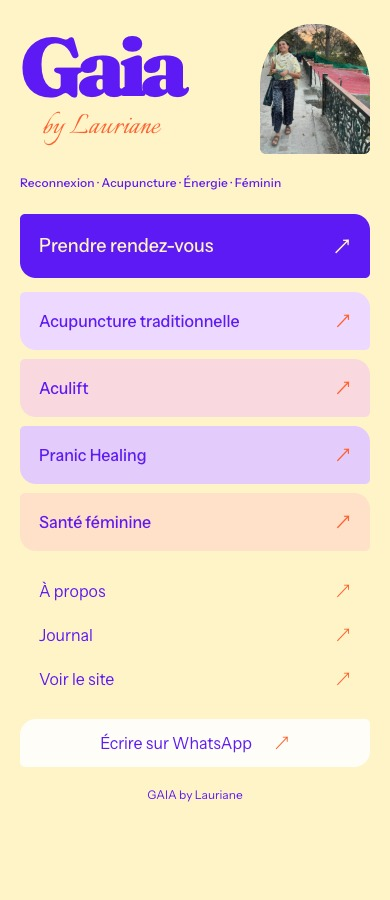
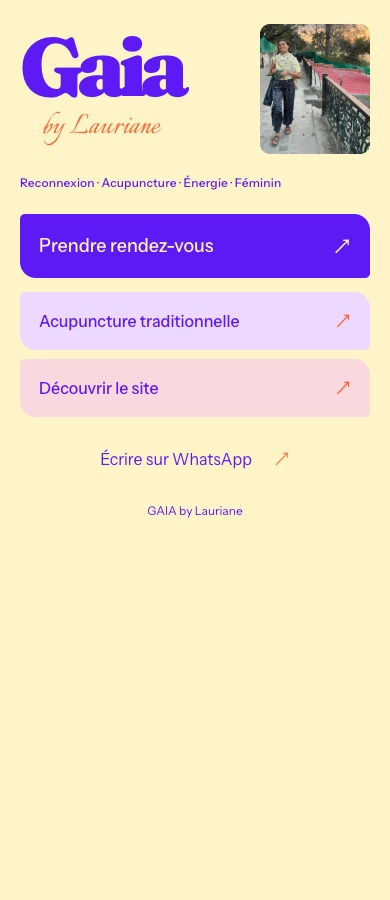
Update Site source

diff --git a/src/styles/links-page.css b/src/styles/links-page.css
@@ -1,6 +1,6 @@
 @font-face{font-family:'Instrument Sans';src:url('/fonts/InstrumentSans-Latin-Variable.woff2') format('woff2');font-weight:100 900;font-display:swap}
 @font-face{font-family:'GAIA Signature';src:url('/fonts/Italianno-Latin-Regular.woff2') format('woff2');font-weight:400;font-display:swap}
 .links-shell{margin:0;background:#FFF4C7;color:#5E1AF4;font-family:'Instrument Sans',sans-serif;-webkit-font-smoothing:antialiased}
-.links-shell *{box-sizing:border-box}.links-poster{width:min(100% - 40px,430px);margin:40px auto 24px}.links-shell a{color:inherit;text-decoration:none}.links-identity{display:flex;align-items:center;justify-content:space-between;gap:24px}.links-wordmark{font:900 90px/.82 'Fraunces Variable',serif;letter-spacing:-.09em;font-variation-settings:'wght' 900,'SOFT' 100,'WONK' 1}.links-wordmark span{display:block;font:400 35px/1 'GAIA Signature',cursive;color:#FF6230;letter-spacing:0;text-align:center;margin-top:10px}.links-identity img{width:124px;height:auto;object-fit:contain;border-radius:48% 48% 6px 6px;display:block}.links-positioning{font-size:13px;line-height:1.5;font-weight:500;letter-spacing:.015em;margin:20px 0 22px}.links-primary{display:grid;gap:9px}.links-primary a{display:flex;align-items:center;justify-content:space-between;gap:12px;min-height:58px;padding:15px 19px;font-size:17px;font-weight:500;border-radius:5px 16px 5px 16px;transition:transform 140ms ease-out}.links-primary .links-book{background:#5E1AF4;color:#FFF4C7;min-height:64px;margin-bottom:5px;font-size:19px}.links-primary .links-book span{color:#FFF4C7}.links-practice span,.links-secondary span{color:#FF6230}.tone-0{background:#EDD8FF}.tone-1{background:#FAD8DF}.tone-2{background:#E3CBFB}.tone-3{background:#FFE0C8}.links-shell a span[aria-hidden]{transition:transform 140ms ease-out}.links-shell a:hover span[aria-hidden]{transform:translateX(3px)}.links-primary a:hover{transform:translateY(-1px)}.links-secondary{margin:18px 0 0;display:grid}.links-secondary a{display:flex;align-items:center;justify-content:space-between;min-height:44px;font-size:16px;padding:7px 19px}.links-secondary a:hover{text-decoration:underline;text-underline-offset:5px}.links-contact{margin-top:18px}.links-contact a{display:flex;align-items:center;justify-content:center;gap:22px;min-height:48px;font-size:16px;background:#FFFDF7;border-radius:16px 5px 16px 5px}.links-contact a span{color:#FF6230}.links-contact p{text-align:center;font-size:12px;margin:20px 0 0}.links-shell a:focus-visible{outline:3px solid #5E1AF4;outline-offset:4px}.links-primary .links-book:focus-visible{outline-color:#FF6230}
+.links-shell *{box-sizing:border-box}.links-poster{width:min(100% - 40px,430px);margin:40px auto 24px}.links-shell a{color:inherit;text-decoration:none}.links-identity{display:flex;align-items:center;justify-content:space-between;gap:24px}.links-wordmark{font:900 90px/.82 'Fraunces Variable',serif;letter-spacing:-.09em;font-variation-settings:'wght' 900,'SOFT' 100,'WONK' 1}.links-wordmark span{display:block;font:400 35px/1 'GAIA Signature',cursive;color:#FF6230;letter-spacing:0;text-align:center;margin-top:10px}.links-identity img{width:124px;height:auto;object-fit:contain;border-radius:10px;display:block}.links-positioning{font-size:13px;line-height:1.5;font-weight:500;letter-spacing:.015em;margin:20px 0 22px}.links-primary{display:grid;gap:9px}.links-primary a{display:flex;align-items:center;justify-content:space-between;gap:12px;min-height:58px;padding:15px 19px;font-size:17px;font-weight:500;border-radius:5px 16px 5px 16px;transition:transform 140ms ease-out}.links-primary .links-book{background:#5E1AF4;color:#FFF4C7;min-height:64px;margin-bottom:5px;font-size:19px}.links-primary .links-book span{color:#FFF4C7}.links-practice span,.links-secondary span{color:#FF6230}.tone-0{background:#EDD8FF}.tone-1{background:#FAD8DF}.tone-2{background:#E3CBFB}.tone-3{background:#FFE0C8}.links-shell a span[aria-hidden]{transition:transform 140ms ease-out}.links-shell a:hover span[aria-hidden]{transform:translateX(3px)}.links-primary a:hover{transform:translateY(-1px)}.links-contact{margin-top:18px}.links-contact a{display:flex;align-items:center;justify-content:center;gap:22px;min-height:48px;font-size:16px;background:transparent;border-radius:0}.links-contact a span{color:#FF6230}.links-contact p{text-align:center;font-size:12px;margin:20px 0 0}.links-shell a:focus-visible{outline:3px solid #5E1AF4;outline-offset:4px}.links-primary .links-book:focus-visible{outline-color:#FF6230}
 @media(max-width:480px){.links-poster{margin-top:24px}.links-wordmark{font-size:82px}.links-identity img{width:110px}.links-positioning{font-size:12px}.links-primary a{font-size:16px}.links-primary .links-book{font-size:18px}}
 @media(prefers-reduced-motion:reduce){.links-primary a,.links-shell a span[aria-hidden]{transition:none}.links-primary a:hover,.links-shell a:hover span[aria-hidden]{transform:none}}
